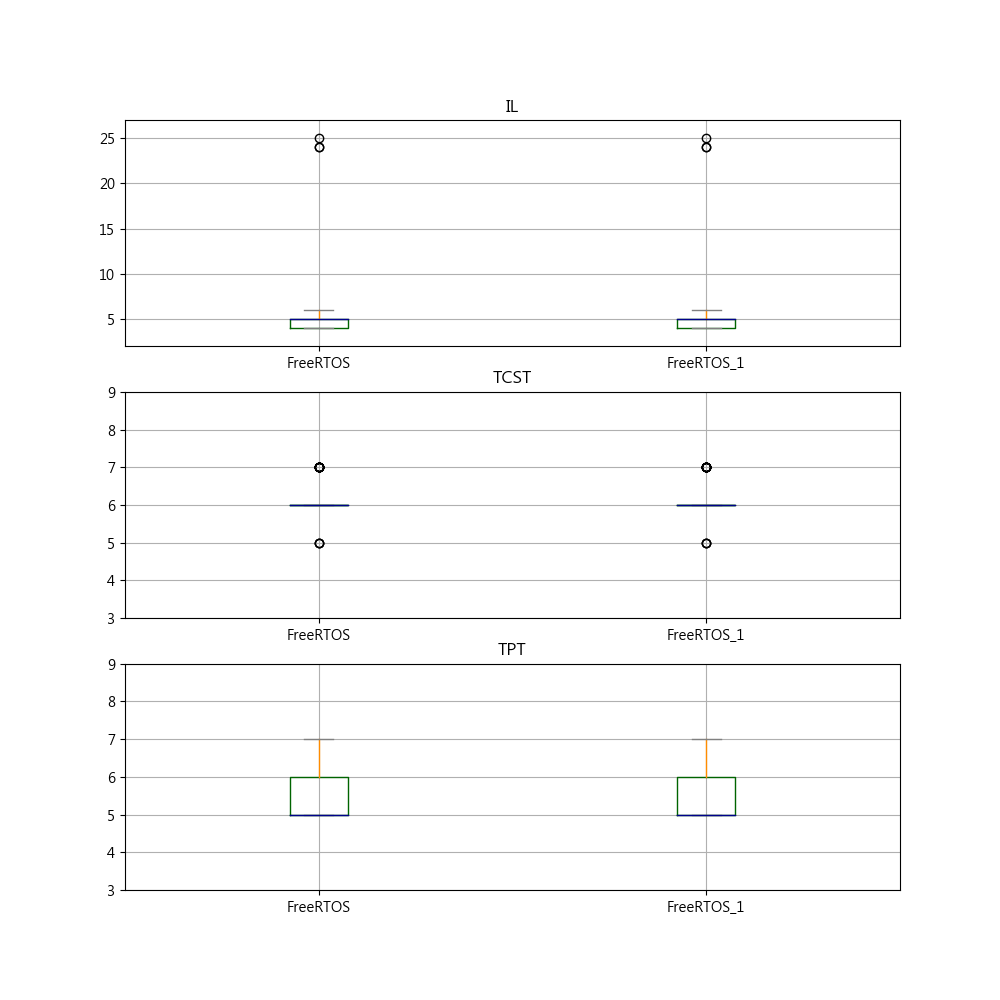
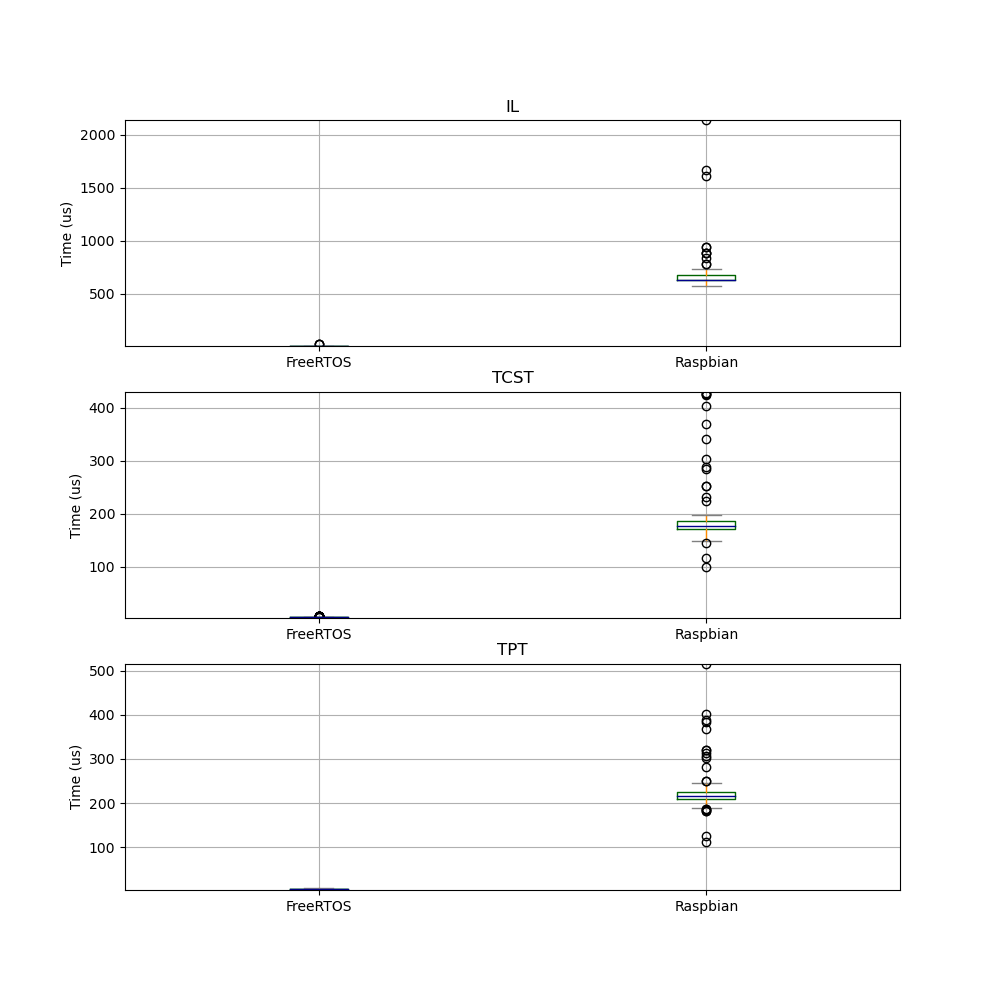
add raspberian visualization

diff --git a/Visualization/plot.py b/Visualization/plot.py
@@ -1,7 +1,7 @@
 import pandas as pd
 import matplotlib.pyplot as plt
 
-os_list = ["FreeRTOS", "FreeRTOS_1"] # Fill in your csv name without extension
+os_list = ["FreeRTOS", "Raspbian"] # Fill in your csv name without extension
 measure_list= ["IL", "TCST", "TPT"]
 
 df_list = [pd.read_csv(os_list[i]+'.csv') for i in range(len(os_list))]
@@ -25,5 +25,6 @@ for i in range(len(measure_list)):
         ax = axes[i],
         title = measure_list[i]
 	)
+	axes[i].set_ylabel("Time (us)")
 
 plt.savefig('comparison_result.png')
